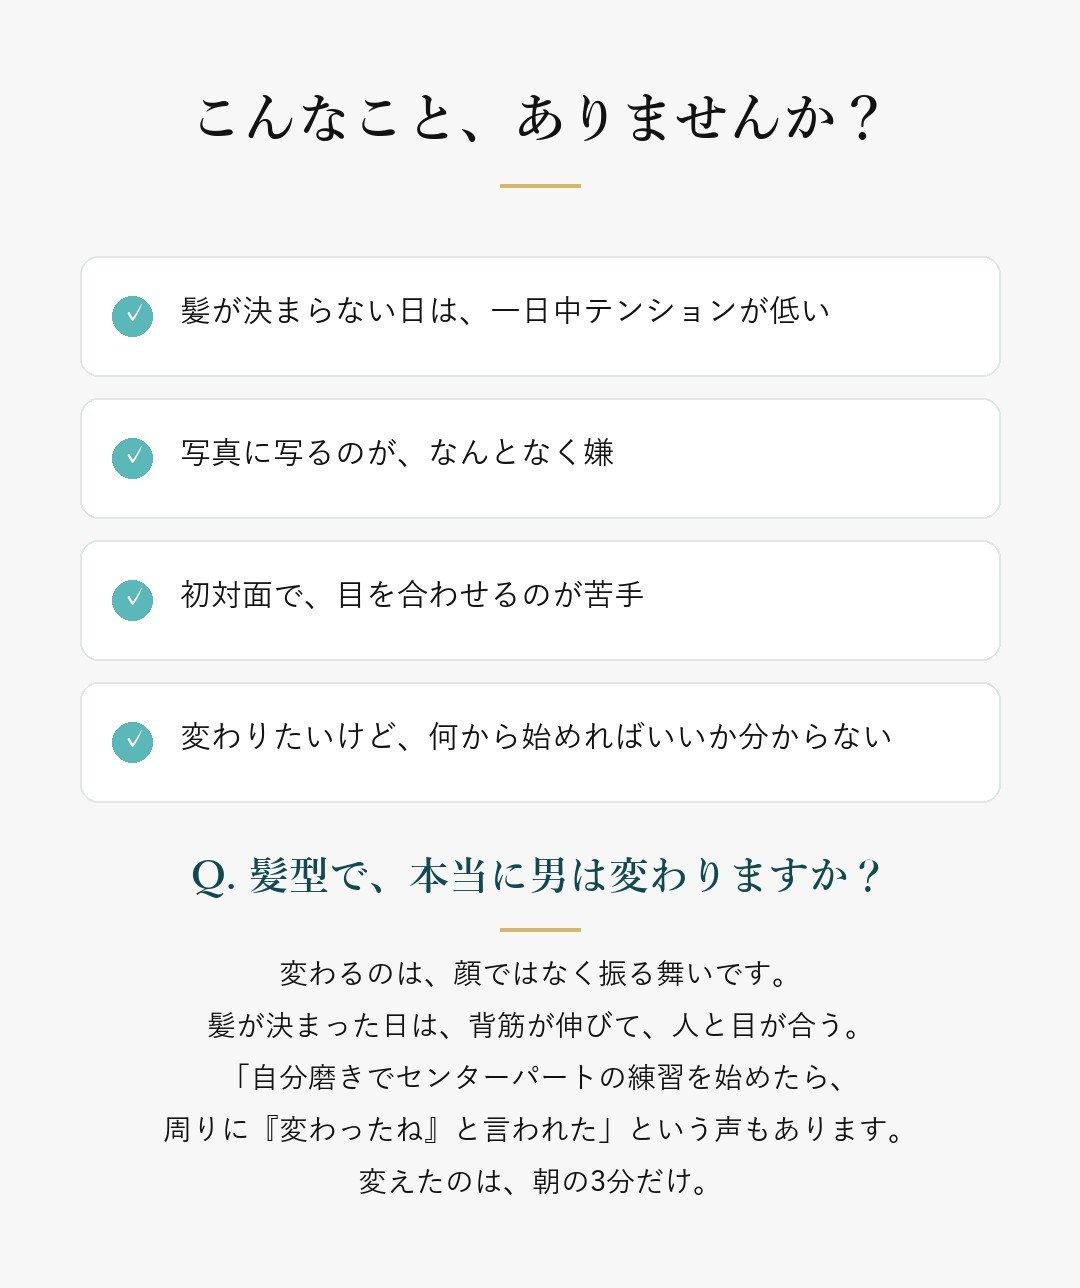
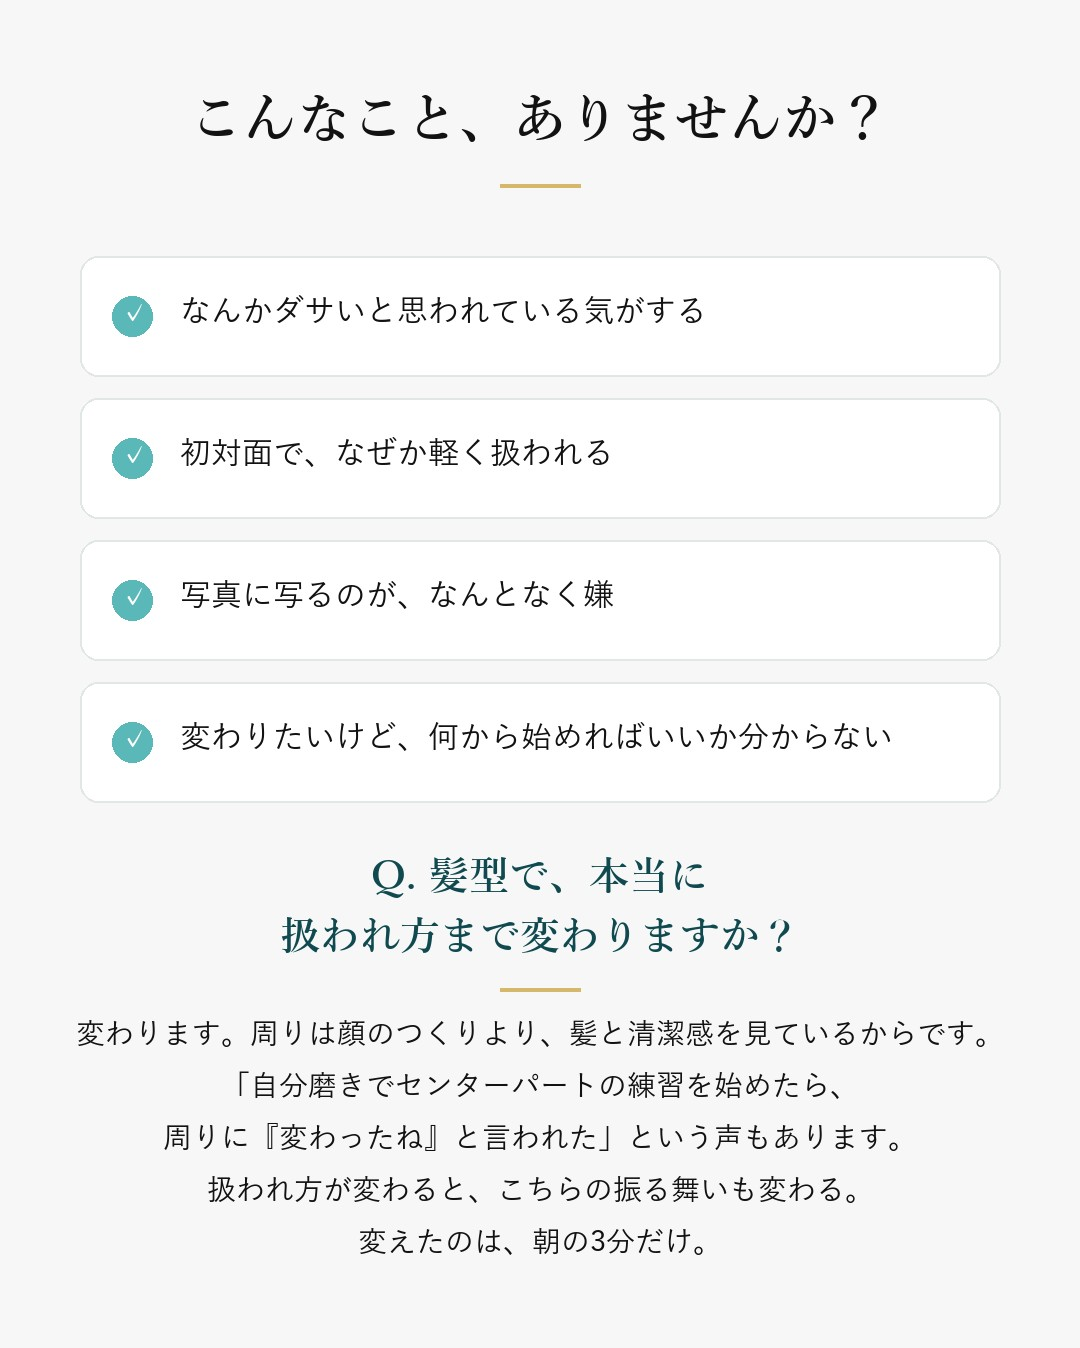
訴求2（/b/）を「ダサいと思われている気がする→扱われ方が変わる」の流れに組み直し

diff --git a/b/index.html b/b/index.html
@@ -4,9 +4,9 @@
 <meta charset="utf-8">
 <meta name="viewport" content="width=device-width,initial-scale=1">
 <meta name="robots" content="noindex">
-<title>LUMIARA｜髪型を変えるだけで、男は変わる。 先行登録</title>
+<title>LUMIARA｜髪型を変えるだけで、扱われ方が変わる。 先行登録</title>
 <meta name="description" content="メンズのための細身ストレートアイロン LUMIARA。発売前の先行登録（LINE）のご案内です。">
-<meta property="og:title" content="LUMIARA｜髪型を変えるだけで、男は変わる。">
+<meta property="og:title" content="LUMIARA｜髪型を変えるだけで、扱われ方が変わる。">
 <meta property="og:image" content="lp01.jpg">
 <style>
 *{box-sizing:border-box;margin:0;padding:0}
@@ -33,24 +33,24 @@ details ul{padding-left:18px}
 </head>
 <body>
 <main>
-<img src="lp01.jpg?v=202609281023" alt="一番上">
-<img src="lp02.jpg?v=202609281023" alt="データ" loading="lazy">
-<img src="lp03.jpg?v=202609281023" alt="悩み" loading="lazy">
-<img src="lp04.jpg?v=202609281023" alt="データ アイロンを使う男は増えている" loading="lazy">
-<img src="lp05.jpg?v=202609281023" alt="ストーリー1" loading="lazy">
-<img src="lp06.jpg?v=202609281023" alt="ストーリー2" loading="lazy">
-<img src="lp07.jpg?v=202609281023" alt="だから作った ヘアアイロン社長のストーリー" loading="lazy">
-<img src="lp08.jpg?v=202609281023" alt="強み1 ひと流しで毛流れ" loading="lazy">
-<img src="lp09.jpg?v=202609281023" alt="強み2 3ステップ" loading="lazy">
-<img src="lp10.jpg?v=202609281023" alt="強み3 見せる道具" loading="lazy">
-<img src="lp11.jpg?v=202609281023" alt="強み4 箱" loading="lazy">
-<img src="lp12.jpg?v=202609281023" alt="細かい作り" loading="lazy">
-<img src="lp13.jpg?v=202609281023" alt="こんな人に" loading="lazy">
-<img src="lp14.jpg?v=202609281023" alt="発売と価格" loading="lazy">
-<img src="lp15.jpg?v=202609281023" alt="なぜ先行登録" loading="lazy">
-<img src="lp16.jpg?v=202609281023" alt="安心して登録するために" loading="lazy">
-<img src="lp17.jpg?v=202609281023" alt="作った人 ヘアアイロン社長" loading="lazy">
-<a href="https://lin.ee/XXXXXXX" class="line-link"><img src="lp18.jpg?v=202609281023" alt="LINE登録" loading="lazy"></a>
+<img src="lp01.jpg?v=202609281040" alt="一番上">
+<img src="lp02.jpg?v=202609281040" alt="データ" loading="lazy">
+<img src="lp03.jpg?v=202609281040" alt="悩み" loading="lazy">
+<img src="lp04.jpg?v=202609281040" alt="データ アイロンを使う男は増えている" loading="lazy">
+<img src="lp05.jpg?v=202609281040" alt="ストーリー1" loading="lazy">
+<img src="lp06.jpg?v=202609281040" alt="ストーリー2" loading="lazy">
+<img src="lp07.jpg?v=202609281040" alt="だから作った ヘアアイロン社長のストーリー" loading="lazy">
+<img src="lp08.jpg?v=202609281040" alt="強み1 ひと流しで毛流れ" loading="lazy">
+<img src="lp09.jpg?v=202609281040" alt="強み2 3ステップ" loading="lazy">
+<img src="lp10.jpg?v=202609281040" alt="強み3 見せる道具" loading="lazy">
+<img src="lp11.jpg?v=202609281040" alt="強み4 箱" loading="lazy">
+<img src="lp12.jpg?v=202609281040" alt="細かい作り" loading="lazy">
+<img src="lp13.jpg?v=202609281040" alt="こんな人に" loading="lazy">
+<img src="lp14.jpg?v=202609281040" alt="発売と価格" loading="lazy">
+<img src="lp15.jpg?v=202609281040" alt="なぜ先行登録" loading="lazy">
+<img src="lp16.jpg?v=202609281040" alt="安心して登録するために" loading="lazy">
+<img src="lp17.jpg?v=202609281040" alt="作った人 ヘアアイロン社長" loading="lazy">
+<a href="https://lin.ee/XXXXXXX" class="line-link"><img src="lp18.jpg?v=202609281040" alt="LINE登録" loading="lazy"></a>
 
 <section class="info">
   <h2>運営者情報</h2>
